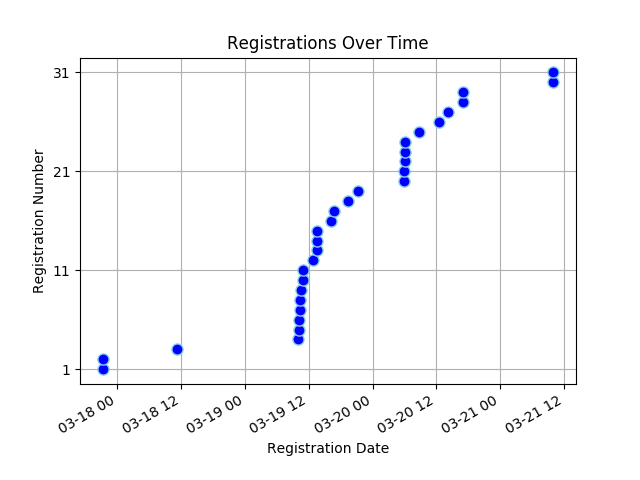
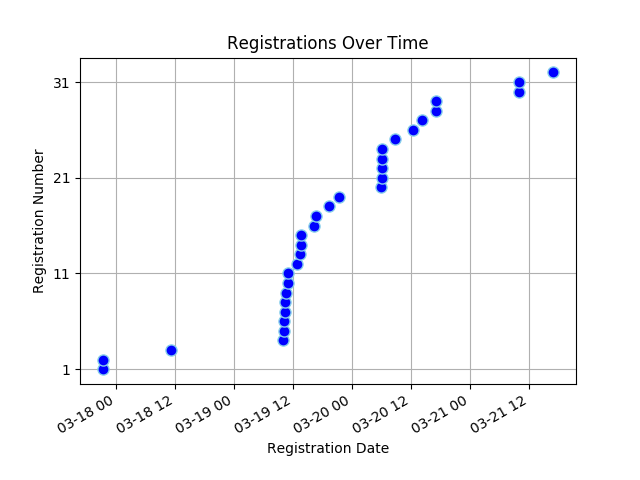
Registree stats backup on Sun 21 Mar 2021 17:10:55 SAST

diff --git a/content/registrees/_index.md b/content/registrees/_index.md
@@ -3,7 +3,7 @@ title: Registration Stats
 draft: false
 ---
 
-<ul><li><strong>Number of Registrees</strong>: 31</li>
+<ul><li><strong>Number of Registrees</strong>: 32</li>
 
 <li><strong>Number of Clubs</strong>: 16</li>
 
@@ -33,6 +33,6 @@ draft: false
         </tr>
     </thead>
     <tbody>
-<tr><td>Valencia Beukes-Williams</td><td>Kuilsriver</td><td>410W</td></tr><tr><td>Sue Charles</td><td>Tokai</td><td>410W</td></tr><tr><td>Esme Cornelius</td><td>Kuilsriver</td><td>410W</td></tr><tr><td>Peter Daniel</td><td>Gordons Bay</td><td>410W</td></tr><tr><td>Norma Daniel</td><td>Gordons Bay</td><td>410W</td></tr><tr><td>Charles Flanagan</td><td>Tokai</td><td>410W</td></tr><tr><td>Jules Flanagan</td><td>Tokai</td><td>410W</td></tr><tr><td>Viv Grater</td><td>Sedgefield</td><td>410W</td></tr><tr><td>Dorothy Hess</td><td>Kuilsriver</td><td>410W</td></tr><tr><td>Liz Houston</td><td>Table View</td><td>410W</td></tr><tr><td>John Houston</td><td>Table View</td><td>410W</td></tr><tr><td>WOLSLEY Jacobson</td><td>Cape Town</td><td>410W</td></tr><tr><td>Zwaai Kruger</td><td>Sedgefield</td><td>410W</td></tr><tr><td>Bevil Lakay</td><td>Mitchells Plain</td><td>410W</td></tr><tr><td>Polquer Lang</td><td>Gordons Bay</td><td>410W</td></tr><tr><td>Beaulieu Mare</td><td>Benoni Lakes</td><td>410E</td></tr><tr><td>Denis Meyer</td><td>Port Shepstone</td><td>410E</td></tr><tr><td>Pieter Nel</td><td>George</td><td>410W</td></tr><tr><td>Tillie Nel</td><td>Eden</td><td>410W</td></tr><tr><td>LYN SNYMAN</td><td>Deep South</td><td>410W</td></tr><tr><td>Jeff Smith</td><td>Port Shepstone</td><td>410E</td></tr><tr><td>Patrick Strauss</td><td>Kuilsriver</td><td>410W</td></tr><tr><td>Edith Van Wyk-Nelson</td><td>Kuilsriver</td><td>410W</td></tr><tr><td>Allan Watson</td><td>Sea Point</td><td>410W</td></tr><tr><td>Engela de Kock</td><td>Swellendam</td><td>410W</td></tr><tr><td>Francois de Kock</td><td>Swellendam</td><td>410W</td></tr><tr><td>RORY stier</td><td>Deep South</td><td>410W</td></tr><tr><td>Jeannie van Wulven</td><td>Tygerberg Hills</td><td>410W</td></tr><tr><td>Alan van Wulven</td><td>Tygerberg Hills</td><td>410W</td></tr><tr><td>Deon van Wulven</td><td>Tygerberg Hills</td><td>410W</td></tr><tr><td>Brian von der Decken</td><td>King William's Town</td><td>410E</td></tr>
+<tr><td>Valencia Beukes-Williams</td><td>Kuilsriver</td><td>410W</td></tr><tr><td>Sue Charles</td><td>Tokai</td><td>410W</td></tr><tr><td>Esme Cornelius</td><td>Kuilsriver</td><td>410W</td></tr><tr><td>Peter Daniel</td><td>Gordons Bay</td><td>410W</td></tr><tr><td>Norma Daniel</td><td>Gordons Bay</td><td>410W</td></tr><tr><td>Charles Flanagan</td><td>Tokai</td><td>410W</td></tr><tr><td>Jules Flanagan</td><td>Tokai</td><td>410W</td></tr><tr><td>Viv Grater</td><td>Sedgefield</td><td>410W</td></tr><tr><td>Dorothy Hess</td><td>Kuilsriver</td><td>410W</td></tr><tr><td>Liz Houston</td><td>Table View</td><td>410W</td></tr><tr><td>John Houston</td><td>Table View</td><td>410W</td></tr><tr><td>WOLSLEY Jacobson</td><td>Cape Town</td><td>410W</td></tr><tr><td>Zwaai Kruger</td><td>Sedgefield</td><td>410W</td></tr><tr><td>Bevil Lakay</td><td>Mitchells Plain</td><td>410W</td></tr><tr><td>Polquer Lang</td><td>Gordons Bay</td><td>410W</td></tr><tr><td>Beaulieu Mare</td><td>Benoni Lakes</td><td>410E</td></tr><tr><td>Denis Meyer</td><td>Port Shepstone</td><td>410E</td></tr><tr><td>Pieter Nel</td><td>George</td><td>410W</td></tr><tr><td>Tillie Nel</td><td>Eden</td><td>410W</td></tr><tr><td>LYN SNYMAN</td><td>Deep South</td><td>410W</td></tr><tr><td>Jeff Smith</td><td>Port Shepstone</td><td>410E</td></tr><tr><td>Patrick Strauss</td><td>Kuilsriver</td><td>410W</td></tr><tr><td>HILARY LISE VAN BREDA</td><td>Cape Town</td><td>410W</td></tr><tr><td>Edith Van Wyk-Nelson</td><td>Kuilsriver</td><td>410W</td></tr><tr><td>Allan Watson</td><td>Sea Point</td><td>410W</td></tr><tr><td>Engela de Kock</td><td>Swellendam</td><td>410W</td></tr><tr><td>Francois de Kock</td><td>Swellendam</td><td>410W</td></tr><tr><td>RORY stier</td><td>Deep South</td><td>410W</td></tr><tr><td>Jeannie van Wulven</td><td>Tygerberg Hills</td><td>410W</td></tr><tr><td>Alan van Wulven</td><td>Tygerberg Hills</td><td>410W</td></tr><tr><td>Deon van Wulven</td><td>Tygerberg Hills</td><td>410W</td></tr><tr><td>Brian von der Decken</td><td>King William's Town</td><td>410E</td></tr>
 </tbody>
 </table>

diff --git a/content/full_stats/_index.md b/content/full_stats/_index.md
@@ -16,16 +16,16 @@ draft: false
 </head>
 <body>
 <h1 style="color: #000000;">Full Registration Stats</h1>
-<ul><li><strong>Number of Registrees</strong>: 31</li>
+<ul><li><strong>Number of Registrees</strong>: 32</li>
 <li><strong>Number of Clubs</strong>: 16</li>
 <li><strong>Club With Most Attendees</strong>: Kuilsriver (5 registrees)</li>
 
-<li><strong>Number of District 410W Convention Attendees</strong>: 27</li>
+<li><strong>Number of District 410W Convention Attendees</strong>: 28</li>
 <li><strong>Number of District 410W Convention Voters</strong>: 17</li>
 <li><strong>Number of District 410E Convention Attendees</strong>: 4</li>
 <li><strong>Number of District 410E Convention Voters</strong>: 3</li>
 
-<li><strong>Number of MD410 Convention Attendees</strong>: 30</li>
+<li><strong>Number of MD410 Convention Attendees</strong>: 31</li>
 <li><strong>Number of MD410 Convention Voters</strong>: 19</li>
 
 </ul>
@@ -273,6 +273,16 @@ draft: false
 <td>Kuilsriver</td>
 <td>410W</td>
 <td style="background-color: lightgreen">Yes</td>
+<td style="background-color: lightgreen">Yes</td>
+<td style="background-color: lightgreen">Yes</td>
+</tr>
+
+    
+<td>33</td>
+<td>HILARY LISE VAN BREDA</td>
+<td>Cape Town</td>
+<td>410W</td>
+<td>No</td>
 <td style="background-color: lightgreen">Yes</td>
 <td style="background-color: lightgreen">Yes</td>
 </tr>
